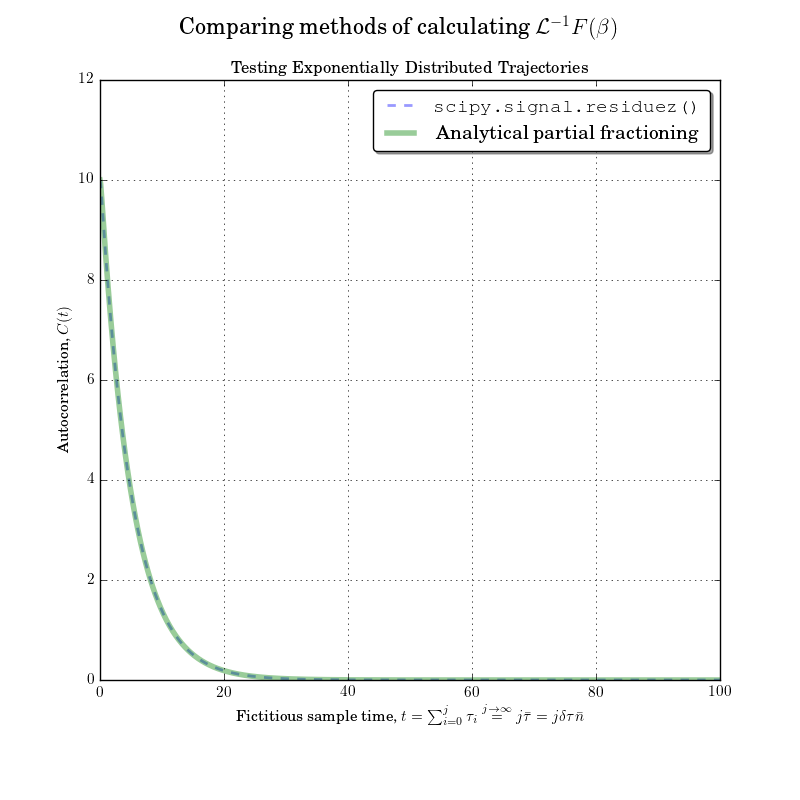
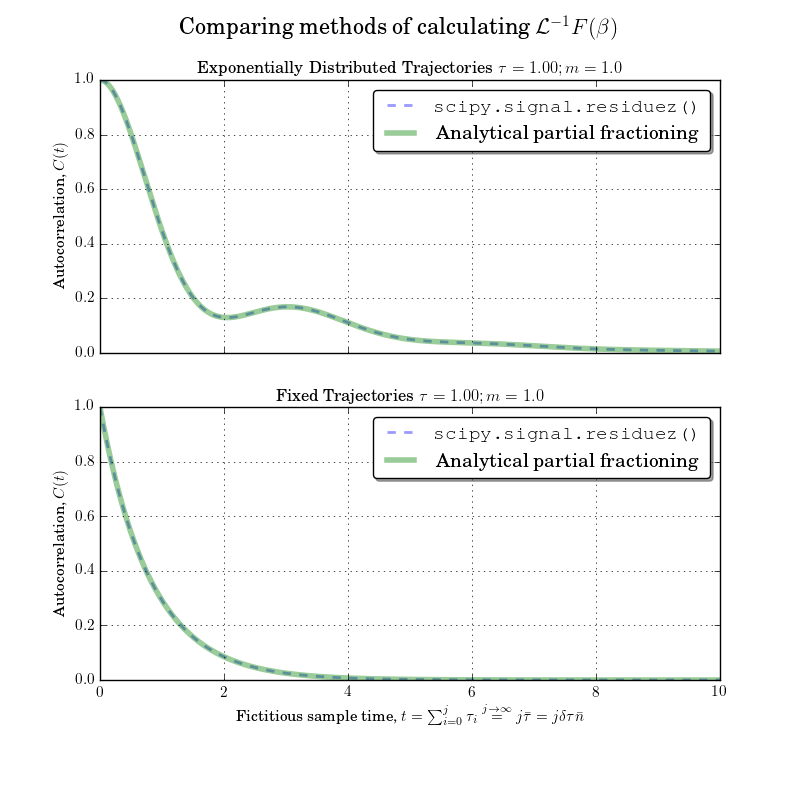
issue:#43: fixed calculation in test
Former-commit-id: f8d5cbb3f76b96e7092321bf8dc9a33a20523bdd

diff --git a/results/theoryNumericalTest.py b/results/theoryNumericalTest.py
@@ -13,7 +13,7 @@ for \beta
 
 Firstly I want to determine
 """
-tau = 0.1
+tau = 1
 m = 1
 
 
@@ -71,12 +71,12 @@ if __name__ == '__main__':
     print 'Exp Constant',me.const
     print
     
-    t = np.linspace(0,100,1000)
+    t = np.linspace(0,10,1000)
     fE = lambda t: np.real(np.asarray([a_i*np.exp(b_i*t) for a_i, b_i in zip(me.res, me.poles)]).sum(0))
     
     mu=np.cos(m*tau)**2  
     r,p,k = residuez([mu,0], [1,-np.cos(m*tau)**2])
-    fF = lambda t: np.real(np.asarray(k) + np.asarray([a_i*np.exp((t/tau+1)*np.log(b_i)) for a_i, b_i in zip(r,p)]).sum(0))
+    fF = lambda t: np.real(np.sum(k) + np.asarray([a_i/b_i*b_i**(t/tau) for a_i, b_i in zip(r,p)]).sum(0))
     
     lines = {
         0:[(t, fE(t), r'\verb|scipy.signal.residuez()|'),(t, me.eval(t), r'Analytical partial fractioning')],
@@ -85,8 +85,8 @@ if __name__ == '__main__':
     
     app = r"$\tau={:4.2f};m={:3.1f}$".format(tau, m)
     subtitles = {
-        0:"Exponentially Distributed Trajectories"+app, 
-        1:"Fixed Trajectories"+app
+        0:"Exponentially Distributed Trajectories "+app, 
+        1:"Fixed Trajectories "+app
         }
     
     plot(lines, subtitles, 

diff --git a/theory/autocorrelations.py b/theory/autocorrelations.py
@@ -210,7 +210,7 @@ class M2_Fix(Common):
         if self.theta==.5*pi:
             b1 = self.poles
             n = t/self.tau  # the number of HMC trajectories (samples)
-            ans = b1**(n)   # see http://math.stackexchange.com/q/1869017/272850
+            ans = b1**n     # see http://math.stackexchange.com/q/1869017/272850
         else:
             if self.pa > self.p_thresh:
                 raise ValueError("not implemented")
